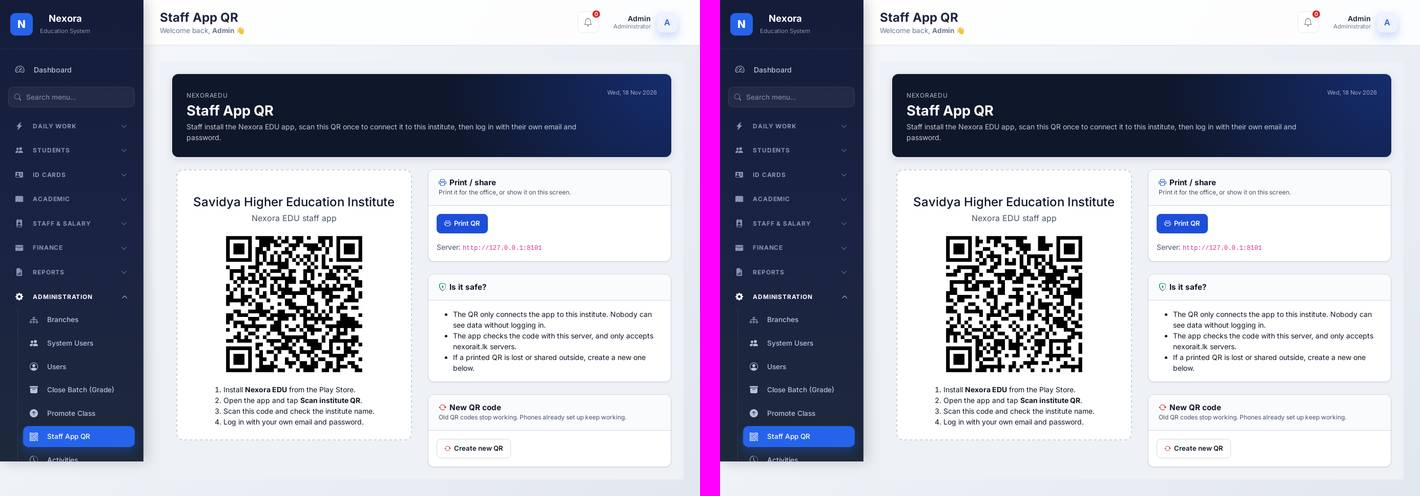
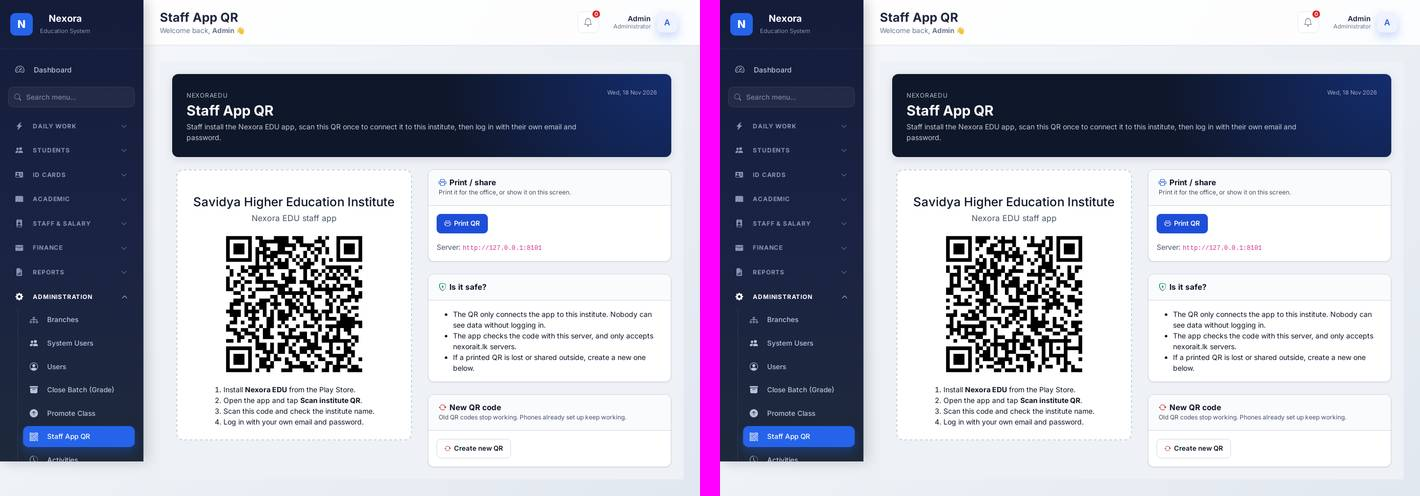
Screens for pr-214 (a6201a5)

Changed region(s): [[0.6507, 0.4536, 0.7746, 0.756], [0.1549, 0.4536, 0.2789, 0.756]]

diff --git a/pr-214/summary.md b/pr-214/summary.md
@@ -1,8 +1,5 @@
-136 screenshots, **4 changed** (left: before, right: after)
+136 screenshots, **1 changed** (left: before, right: after)
 
 | Page | Height | Changed | First element that differs |
 |---|---|---|---|
-| mobile__admin_setting_notifications | 2142px → 2150px | 4.27% | `input#payment_push.btn-check` 13×13@117,831 → 13×32@117,831 position: absolute → static |
-| desktop__app_setup_qr | 967px → 967px | 1.7% | elements 104 → 103 |
-| desktop__admin_notifications | 1048px → 1048px | 0.28% | `span.ui-badge.custom-badge.status-badge` 80×29@962,815 → 80×29@962,815 background-color: rgb(25, 135, 84) → rgba(0, 0, 0, 0) |
-| desktop__admin_setting_notifications | 1171px → 1171px | 0.26% | `input#payment_push.btn-check` 13×13@966,485 → 13×32@940,484 position: absolute → static |
+| desktop__app_setup_qr | 967px → 967px | 1.79% | elements 104 → 103 |
